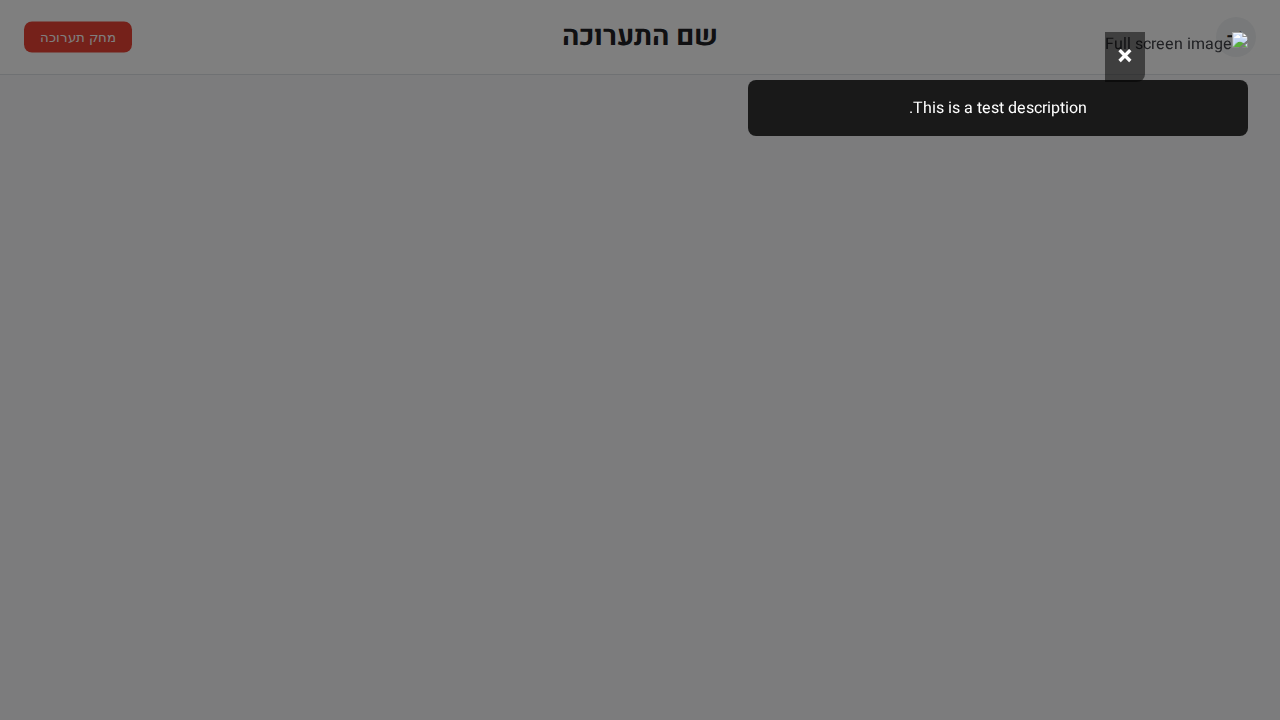
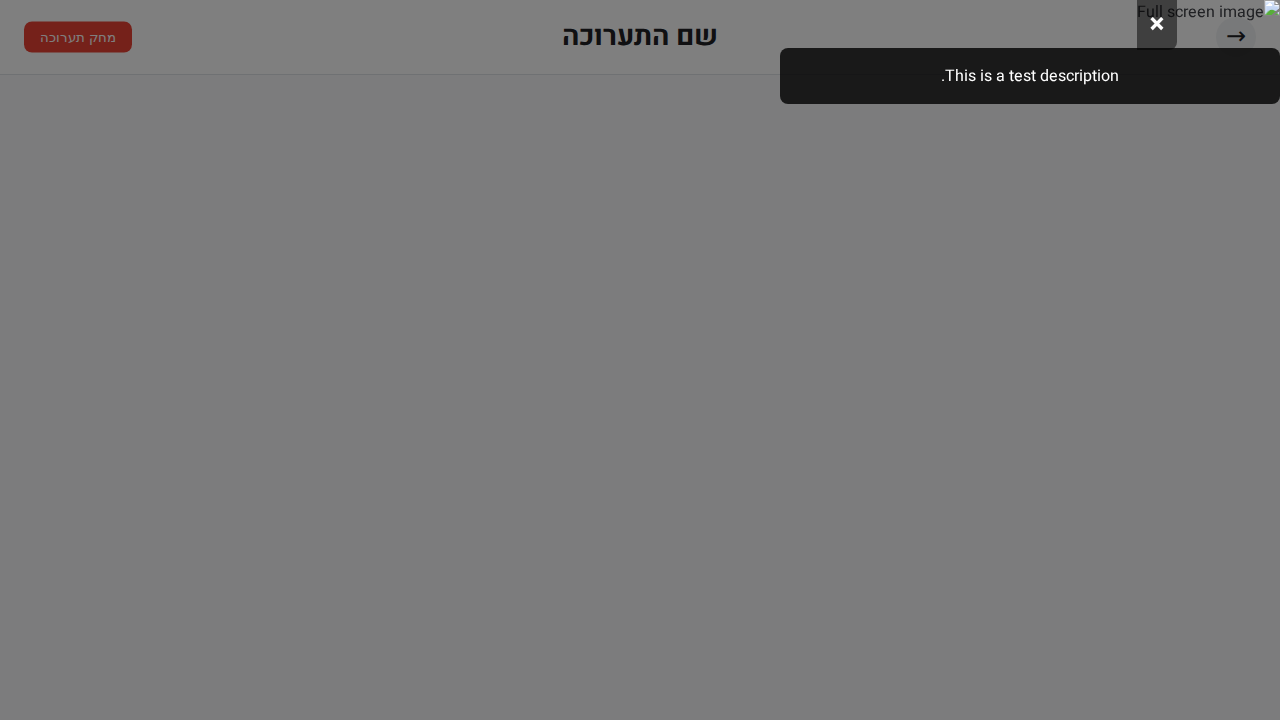
fix: Center full-screen image modal
This commit fixes a layout bug where the full-screen image view was not correctly centered, especially on mobile devices.

The fix involves applying flexbox centering properties to the modal overlay (`#view-image-modal`) to ensure its content is always centered both horizontally and vertically within the viewport.

Changed region(s): [[0.5625, 0.0, 1.0, 0.2139]]

diff --git a/style.css b/style.css
@@ -282,11 +282,20 @@ form button:hover, .file-input-label:hover {
 }
 
 /* --- Full Screen Image Modal --- */
+#view-image-modal {
+    display: flex;
+    align-items: center;
+    justify-content: center;
+}
+
 #view-image-modal .modal-content {
     background-color: transparent;
     box-shadow: none;
-    position: static; /* Override absolute positioning for this specific modal */
+    /* The centering is now handled by the parent, so we don't need absolute positioning here */
+    position: static;
     transform: none;
+    width: auto; /* Allow content to dictate width */
+    padding: 0;
 }
 
 .view-image-wrapper {
